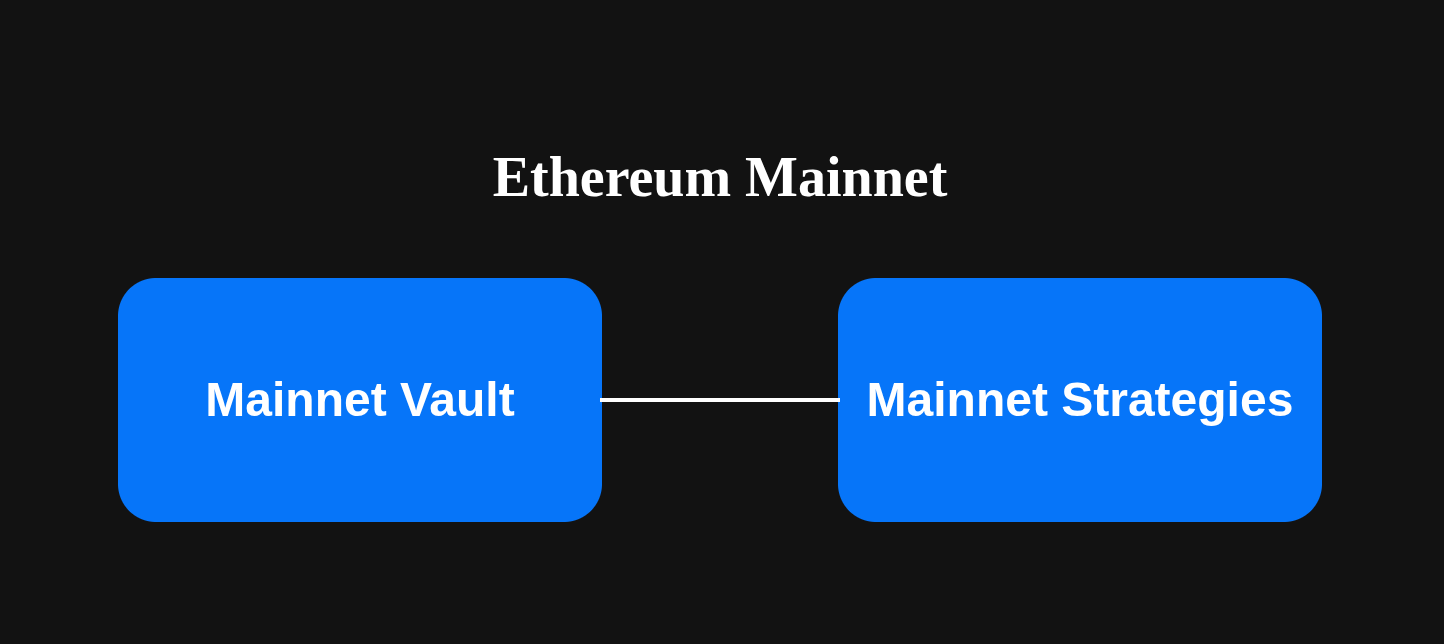
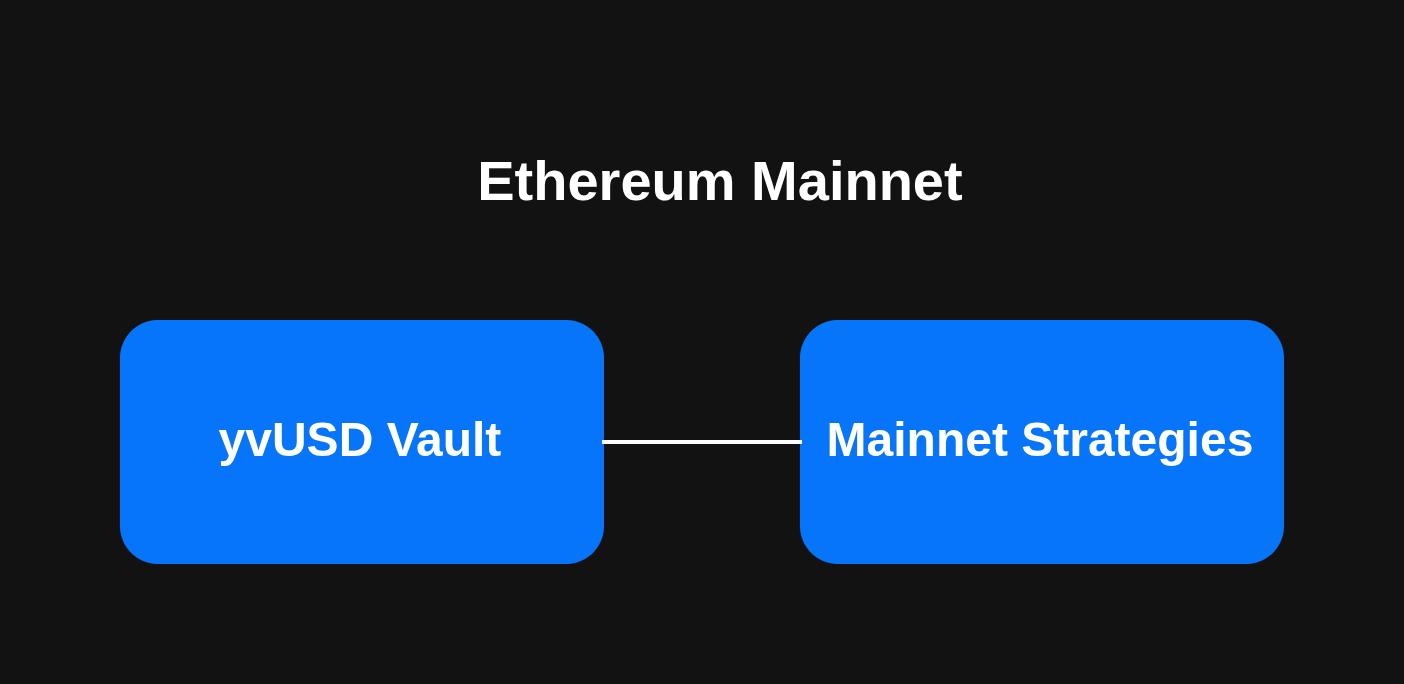
Update images, update sidebar

Changed region(s): [[0.0613, 0.4348, 0.9188, 0.8385], [0.3369, 0.2174, 0.7044, 0.3106], [0.1225, 0.5901, 0.3675, 0.6832]]

diff --git a/sidebars/sidebarsDeveloperDocs.js b/sidebars/sidebarsDeveloperDocs.js
@@ -164,6 +164,11 @@ export default {
         },
         {
           type: 'doc',
+          label: 'yvUSD',
+          id: 'addresses/yvusd-contracts',
+        },
+        {
+          type: 'doc',
           label: 'yVaults v3',
           id: 'addresses/v3-contracts',
         },
@@ -196,11 +201,6 @@ export default {
           type: 'doc',
           label: 'yETH',
           id: 'addresses/ypools-contracts',
-        },
-        {
-          type: 'doc',
-          label: 'yvUSD',
-          id: 'addresses/yvusd-contracts',
         },
         {
           type: 'doc',

diff --git a/docs/getting-started/products/yvaults/yvusd.md b/docs/getting-started/products/yvaults/yvusd.md
@@ -35,6 +35,8 @@ Withdrawing from `LockedYvUSD` is a two-step process:
 
 If the withdrawal window expires before the user withdraws, the cooldown must be restarted from step 1. Shares locked in an active cooldown cannot be transferred.
 
+![Withdrawal timeline for LockedyvUSD](/img/diagrams/yvusd/lockedyvUSD-timeline.png)
+
 ## Risks To Understand
 
 yvUSD and its strategies involve risks beyond standard single-chain Yearn v3 vaults:
